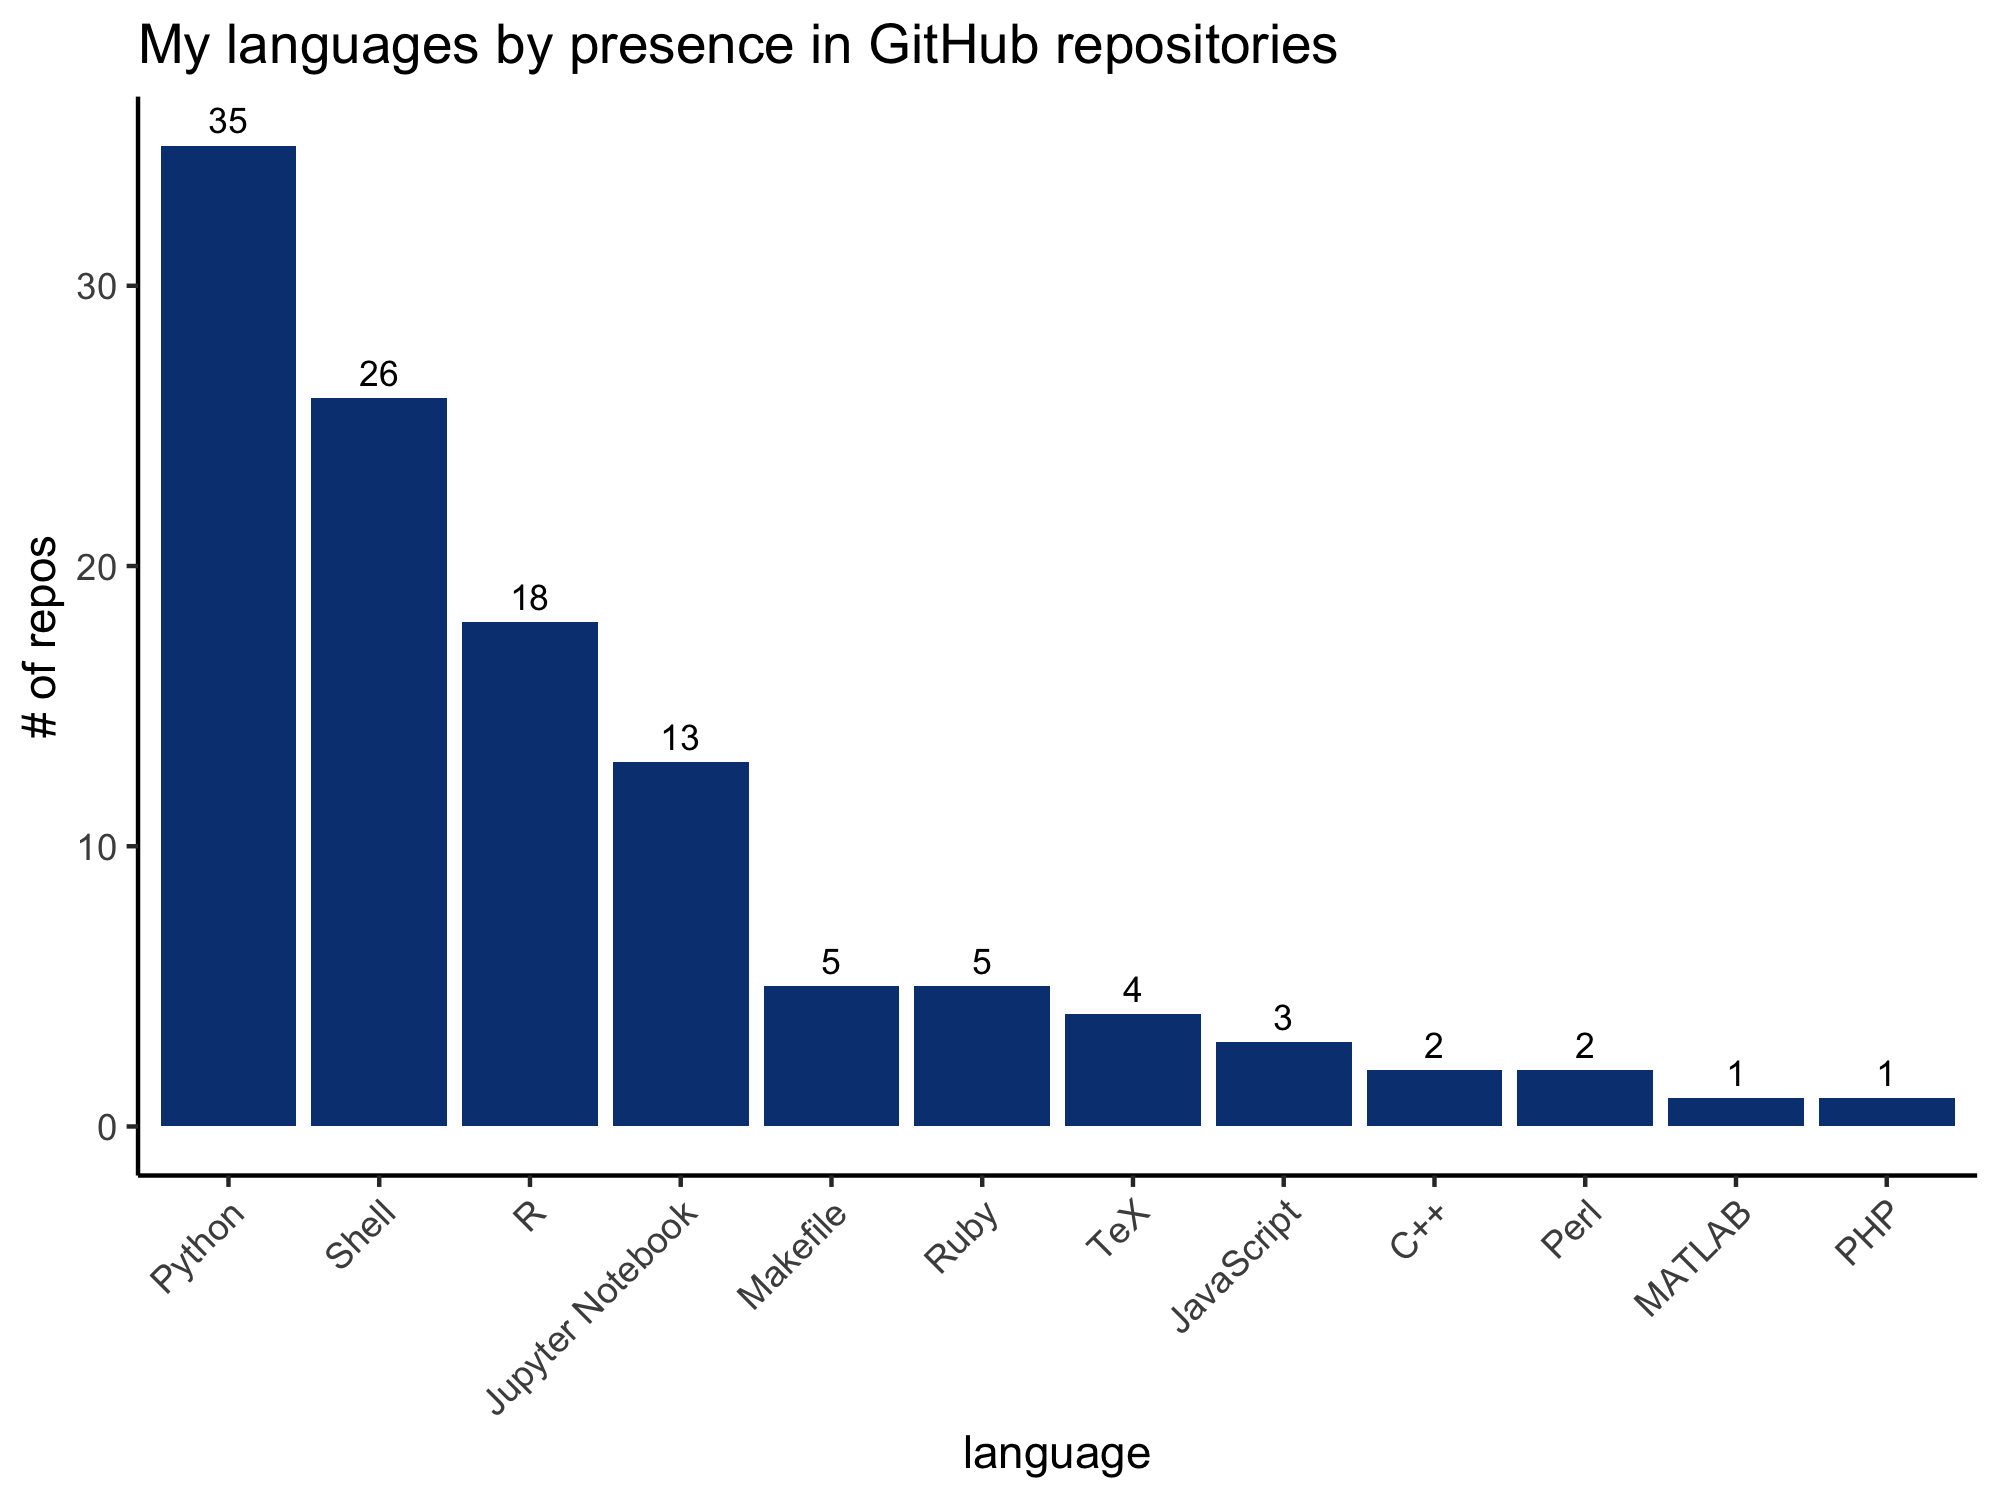
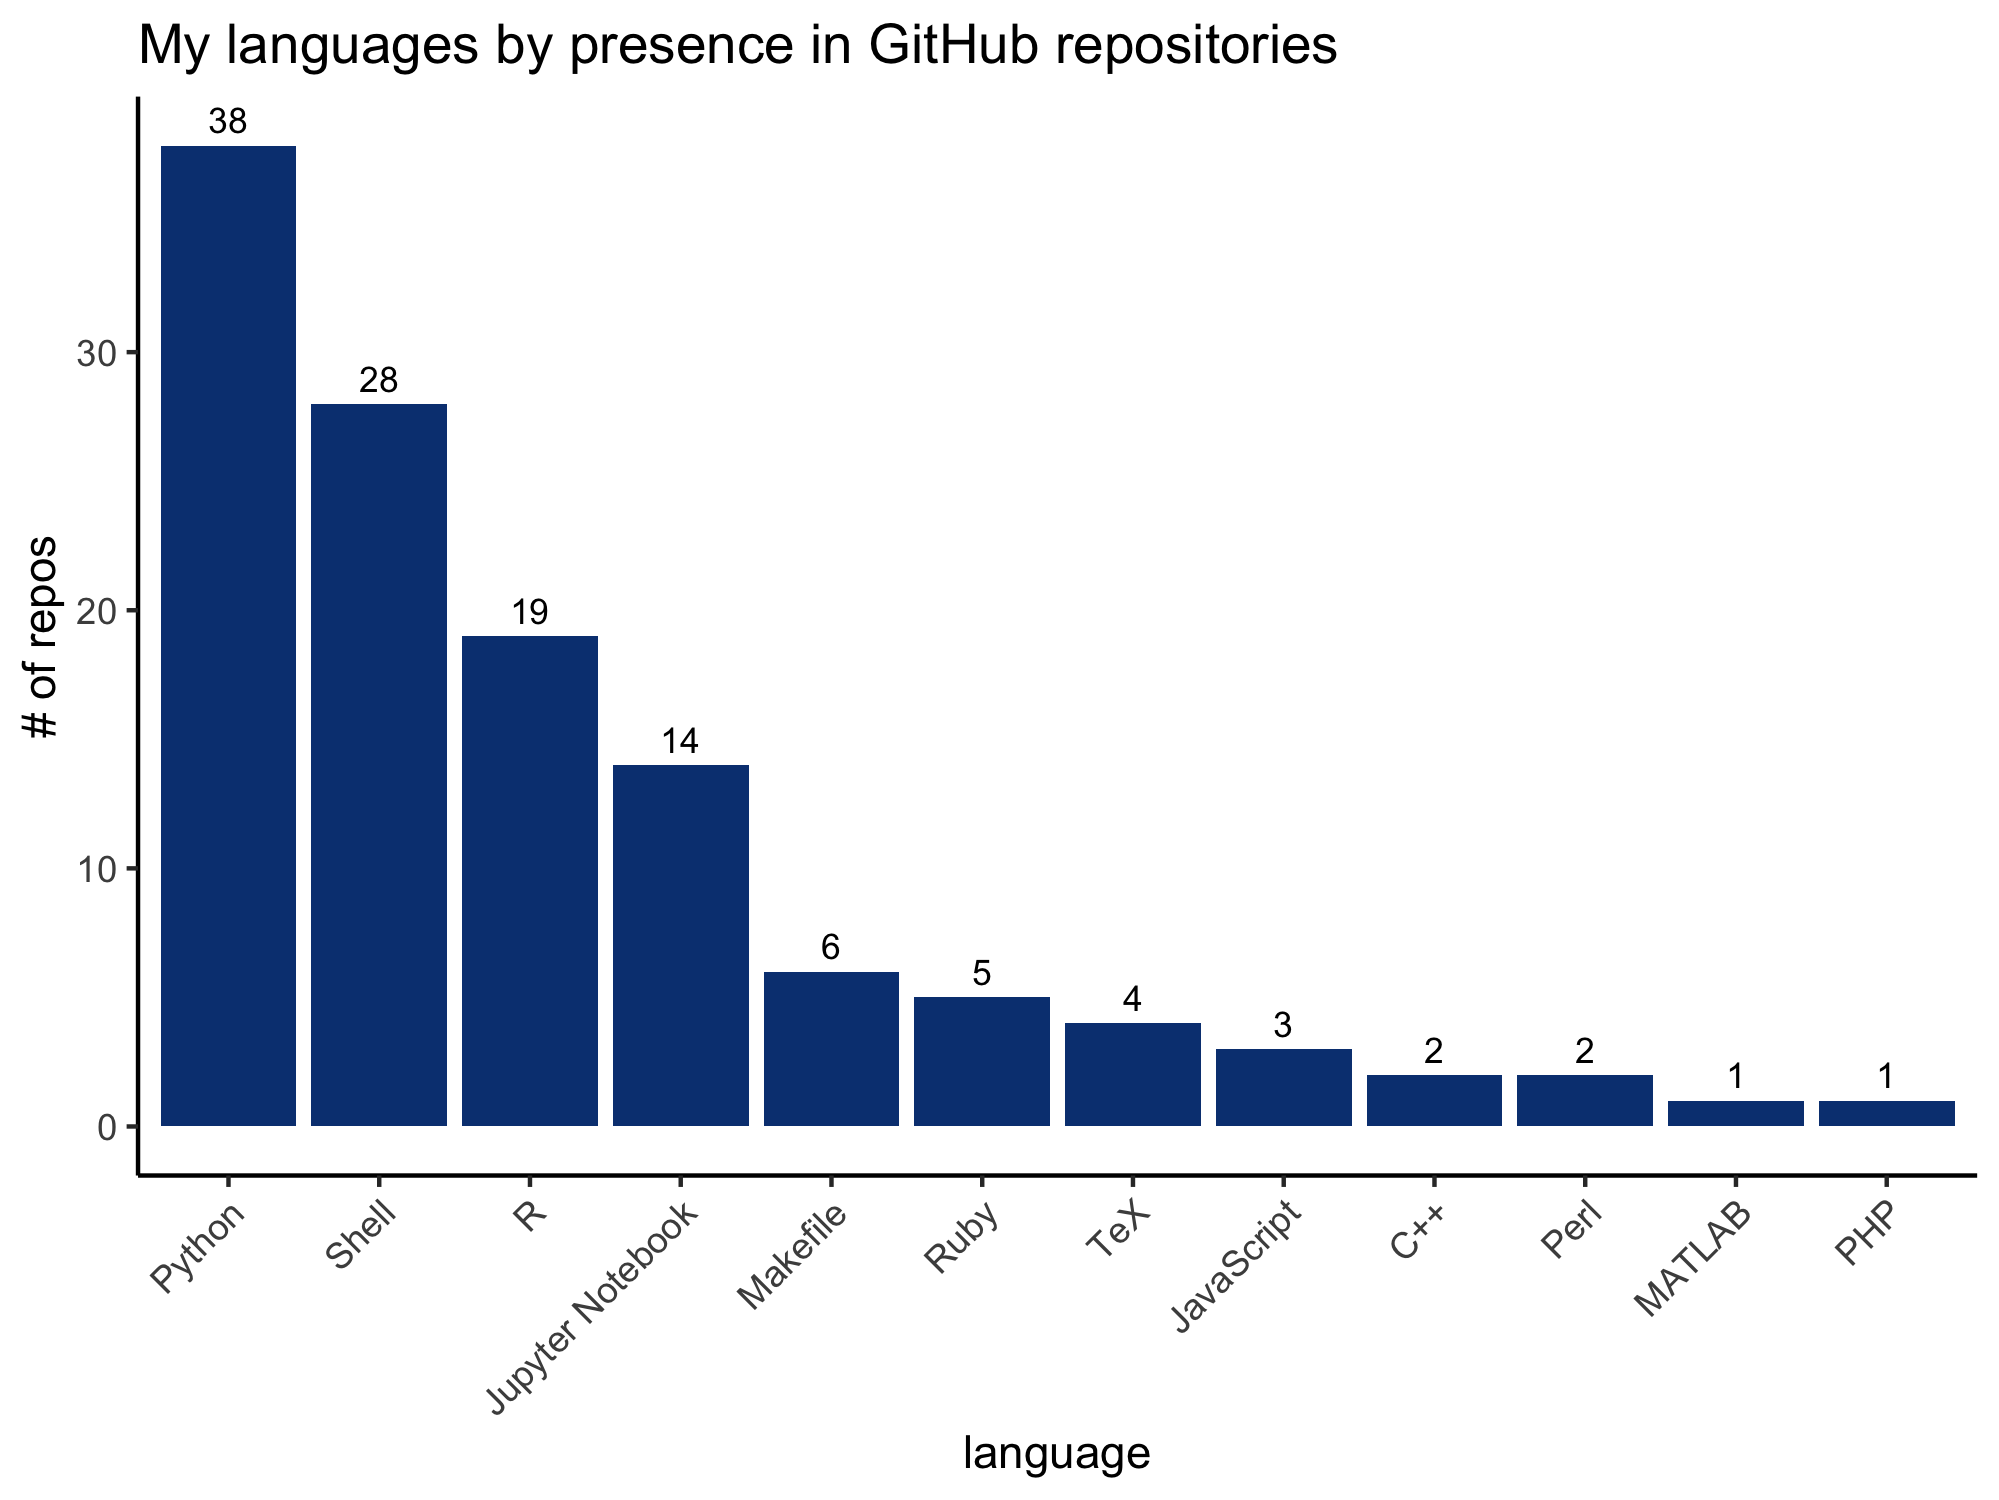
Update repos

diff --git a/README.md b/README.md
@@ -10,19 +10,20 @@ A meta-repository to organize my public projects.
 ### Current
 | Repository | Description | Owner | Language(s) |
 |---|---|---|---|
-| [2020-01-06-UMich-WISE](https://github.com/UMSWC/2020-01-06-UMich-WISE) | Software Carpentry workshop for WISE at U-M | [UMSWC](https://github.com/UMSWC) | Python, HTML, CSS, R, Makefile, JavaScript, Shell, Ruby |
-| [umswc.github.io](https://github.com/UMSWC/umswc.github.io) | UM Software and Data Carpentry Website | [UMSWC](https://github.com/UMSWC) | CSS, HTML, Python, Ruby |
-| [CapstoneProject](https://github.com/GWC-DCMB/CapstoneProject) | Capstone Project datasets & instructions. | [GWC-DCMB](https://github.com/GWC-DCMB) | Jupyter Notebook |
-| [ClubCurriculum](https://github.com/GWC-DCMB/ClubCurriculum) | Curriculum for our weekly club for high school students. | [GWC-DCMB](https://github.com/GWC-DCMB) | Jupyter Notebook, Shell, Python |
-| [GWC-DCMB](https://github.com/GWC-DCMB/GWC-DCMB) | A meta-repository to help navigate the repos and resources of Girls Who Code at UM-DCMB. | [GWC-DCMB](https://github.com/GWC-DCMB) | Python, Shell |
-| [SummerExperience](https://github.com/GWC-DCMB/SummerExperience) | Curriculum & materials for our week-long Data Science Summer Experience. | [GWC-DCMB](https://github.com/GWC-DCMB) | Jupyter Notebook, Shell, Python |
-| [meta-repo](https://github.com/kelly-sovacool/meta-repo) | A meta-repository to organize my public projects. | [kelly-sovacool](https://github.com/kelly-sovacool) | Python, R, Shell |
 | [strava](https://github.com/kelly-sovacool/strava) | Having fun plotting my activity data from Strava! | [kelly-sovacool](https://github.com/kelly-sovacool) | R, Python, Shell |
 | [kelly-sovacool.github.io](https://github.com/kelly-sovacool/kelly-sovacool.github.io) | My personal website, forked from the academicpages template. | [kelly-sovacool](https://github.com/kelly-sovacool) | Shell |
 | [latex-cv](https://github.com/kelly-sovacool/latex-cv) | My curriculum vitae in LaTeX + a Snakemake pipeline for compiling tex to pdf. | [kelly-sovacool](https://github.com/kelly-sovacool) | TeX, Python, Shell |
+| [ML_pipeline_microbiome](https://github.com/SchlossLab/ML_pipeline_microbiome) |  | [SchlossLab](https://github.com/SchlossLab) | R, Makefile, Shell |
+| [tiger_salamander_project](https://github.com/kelly-sovacool/tiger_salamander_project) | SNP pipeline using Snakemake for the Weisrock Lab's Tiger Salamander project. | [kelly-sovacool](https://github.com/kelly-sovacool) | Python, Shell |
+| [CapstoneProject](https://github.com/GWC-DCMB/CapstoneProject) | Capstone Project datasets & instructions. | [GWC-DCMB](https://github.com/GWC-DCMB) | Jupyter Notebook |
+| [2020-01-06-UMich-WISE](https://github.com/UMSWC/2020-01-06-UMich-WISE) | Software Carpentry workshop for WISE at U-M | [UMSWC](https://github.com/UMSWC) | Python, HTML, CSS, R, Makefile, JavaScript, Shell, Ruby |
+| [GWC-DCMB](https://github.com/GWC-DCMB/GWC-DCMB) | A meta-repository to help navigate the repos and resources of Girls Who Code at UM-DCMB. | [GWC-DCMB](https://github.com/GWC-DCMB) | Python, Shell |
+| [meta-repo](https://github.com/kelly-sovacool/meta-repo) | A meta-repository to organize my public projects. | [kelly-sovacool](https://github.com/kelly-sovacool) | Python, R, Shell |
+| [umswc.github.io](https://github.com/UMSWC/umswc.github.io) | UM Software and Data Carpentry Website | [UMSWC](https://github.com/UMSWC) | CSS, HTML, Python, Ruby |
+| [ClubCurriculum](https://github.com/GWC-DCMB/ClubCurriculum) | Curriculum for our weekly club for high school students. | [GWC-DCMB](https://github.com/GWC-DCMB) | Jupyter Notebook, Shell, Python |
+| [SummerExperience](https://github.com/GWC-DCMB/SummerExperience) | Curriculum & materials for our week-long Data Science Summer Experience. | [GWC-DCMB](https://github.com/GWC-DCMB) | Jupyter Notebook, Shell, Python |
 | [schlosslab.github.io](https://github.com/SchlossLab/schlosslab.github.io) | The website for the Schloss Lab at the University of Michigan | [SchlossLab](https://github.com/SchlossLab) | CSS, HTML, Ruby |
 | [um-dang.github.io](https://github.com/um-dang/um-dang.github.io) | Website for the Data Analysis Networking Group at U-M. | [um-dang](https://github.com/um-dang) |  |
-| [tiger_salamander_project](https://github.com/kelly-sovacool/tiger_salamander_project) | SNP pipeline using Snakemake for the Weisrock Lab's Tiger Salamander project. | [kelly-sovacool](https://github.com/kelly-sovacool) | Python, Shell |
 | [codeDemos](https://github.com/GWC-DCMB/codeDemos) | Stand-alone Python coding demos. | [GWC-DCMB](https://github.com/GWC-DCMB) | Jupyter Notebook, Python |
 | [documenting-R](https://github.com/SchlossLab/documenting-R) | Materials for a code review on documenting R code. | [SchlossLab](https://github.com/SchlossLab) | R |
 | [exception-handling](https://github.com/SchlossLab/exception-handling) | Materials for a code review on exception handling in R for lab meeting. | [SchlossLab](https://github.com/SchlossLab) | R |
@@ -37,11 +38,11 @@ A meta-repository to organize my public projects.
 | [FEMMES](https://github.com/GWC-DCMB/FEMMES) | Resources for activities for U-M FEMMES. | [GWC-DCMB](https://github.com/GWC-DCMB) |  |
 | [Great_Lakes_SLURM](https://github.com/SchlossLab/Great_Lakes_SLURM) | Using the Great Lakes cluster and batch computing with SLURM  | [SchlossLab](https://github.com/SchlossLab) |  |
 | [git_update](https://github.com/akhagan/git_update) | Updating SWC git lessons with the puzzle analogy | [akhagan](https://github.com/akhagan) | HTML, Python, CSS, R, Makefile, JavaScript, Ruby, Shell |
-| [stats-ref](https://github.com/kelly-sovacool/stats-ref) | A reference for concepts & equations in statistics. | [kelly-sovacool](https://github.com/kelly-sovacool) | Python, CSS |
 
 ### Stale
 | Repository | Description | Owner | Language(s) |
 |---|---|---|---|
+| [stats-ref](https://github.com/kelly-sovacool/stats-ref) | A reference for concepts & equations in statistics. | [kelly-sovacool](https://github.com/kelly-sovacool) | Python, CSS |
 | [PyCon_2019](https://github.com/GabrielleRab/PyCon_2019) | Repository for PyCon 2019 Education Summit Mini-Sprint: Workbooks that teach Python through scientific data exploration | [GabrielleRab](https://github.com/GabrielleRab) | Jupyter Notebook |
 | [advent-of-code-2018](https://github.com/kelly-sovacool/advent-of-code-2018) | My solutions to the Advent of Code 2018 puzzles. | [kelly-sovacool](https://github.com/kelly-sovacool) | Jupyter Notebook, Python, Shell |
 | [useful-programs](https://github.com/thesuperlab/useful-programs) |  | [thesuperlab](https://github.com/thesuperlab) | Python, Shell |
@@ -49,18 +50,19 @@ A meta-repository to organize my public projects.
 ### Archive
 | Repository | Description | Owner | Language(s) |
 |---|---|---|---|
-| [undergrad-comp-sci](https://github.com/kelly-sovacool/undergrad-comp-sci) | A collection of code I wrote for assignments in computer science courses as an undergraduate student at the University of Kentucky (2014-2018). | [kelly-sovacool](https://github.com/kelly-sovacool) | Python, C++, Ruby, PHP, JavaScript, Perl, R, HTML, CSS, Makefile |
-| [bioinf603-fall2019](https://github.com/kelly-sovacool/bioinf603-fall2019) | Presentation for BIOINF 603: Journal Club | [kelly-sovacool](https://github.com/kelly-sovacool) |  |
-| [jupyter-ci-mwe](https://github.com/kelly-sovacool/jupyter-ci-mwe) | A minimal working example of using continuous integration to convert jupyter notebooks to PDFs. | [kelly-sovacool](https://github.com/kelly-sovacool) | Jupyter Notebook |
 | [planets-kelly](https://github.com/kelly-sovacool/planets-kelly) | Teaching git at Software Carpentry Workshop 2019-07-01 | [kelly-sovacool](https://github.com/kelly-sovacool) |  |
+| [bioinf603-fall2019](https://github.com/kelly-sovacool/bioinf603-fall2019) | Presentation for BIOINF 603: Journal Club | [kelly-sovacool](https://github.com/kelly-sovacool) |  |
+| [geo109-project](https://github.com/kelly-sovacool/geo109-project) | Lexington collision maps for GEO109 | [kelly-sovacool](https://github.com/kelly-sovacool) | Python |
+| [undergrad-comp-sci](https://github.com/kelly-sovacool/undergrad-comp-sci) | A collection of code I wrote for assignments in computer science courses as an undergraduate student at the University of Kentucky (2014-2018). | [kelly-sovacool](https://github.com/kelly-sovacool) | Python, C++, Ruby, PHP, JavaScript, Perl, R, HTML, CSS, Makefile |
+| [jupyter-ci-mwe](https://github.com/kelly-sovacool/jupyter-ci-mwe) | A minimal working example of using continuous integration to convert jupyter notebooks to PDFs. | [kelly-sovacool](https://github.com/kelly-sovacool) | Jupyter Notebook |
 | [lang-stats](https://github.com/kelly-sovacool/lang-stats) | Collect & plot personal programming language statistics from GitHub repos | [kelly-sovacool](https://github.com/kelly-sovacool) | Python |
 | [miRNA-diff-expr](https://github.com/kelly-sovacool/miRNA-diff-expr) | Differential expression analysis for miRNA sequence data | [kelly-sovacool](https://github.com/kelly-sovacool) | R |
 | [dmrr-submission-prep](https://github.com/kelly-sovacool/dmrr-submission-prep) | Prepare miRNA metadata for submission to the exRNA Data Coordination Center | [kelly-sovacool](https://github.com/kelly-sovacool) | Jupyter Notebook, Python |
-| [geo109-project](https://github.com/kelly-sovacool/geo109-project) | Lexington collision maps for GEO109 | [kelly-sovacool](https://github.com/kelly-sovacool) | Python |
 
 ### Gists
 | Description |
 |---|
+| [](https://gist.github.com/ac8b5db07c4ae35266701266cb1d0238) |
 | [Comparing runtime of a for loop vs list comprehensions for a permutation test](https://gist.github.com/bb8589d233887fdb783e23d7bfb03414) |
 | [Notes on software performance analysis](https://gist.github.com/cc056f236f4363347fafb62fbdbc694f) |
 | [Monte Carlo simulation to estimate the value of Pi](https://gist.github.com/d58f051059720b3b21841209a3abe48a) |
